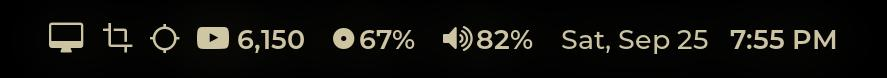
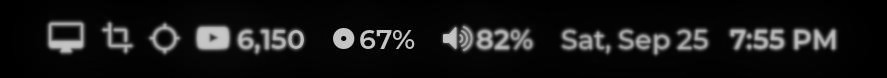
Adding a blurred image

Changed region(s): [[0.487, 0.3077, 0.9436, 0.7179], [0.0304, 0.2564, 0.4566, 0.7179]]

diff --git a/README.md b/README.md
@@ -5,9 +5,7 @@
 # Disk Monitor
 A simple polybar module that takes prints the percentage full on your boot drive (/). 
 
-<p align="center">
-  <img src="https://raw.githubusercontent.com/makccr/disk-monitor-polybar/main/disk.jpg" alt="Preview of Module"/>
-</p>
+![Preview image of Module in action](https://raw.githubusercontent.com/makccr/disk-monitor-polybar/main/disk.jpg)
 
 ## Installation
 You need two pieces to get this module to work: 
